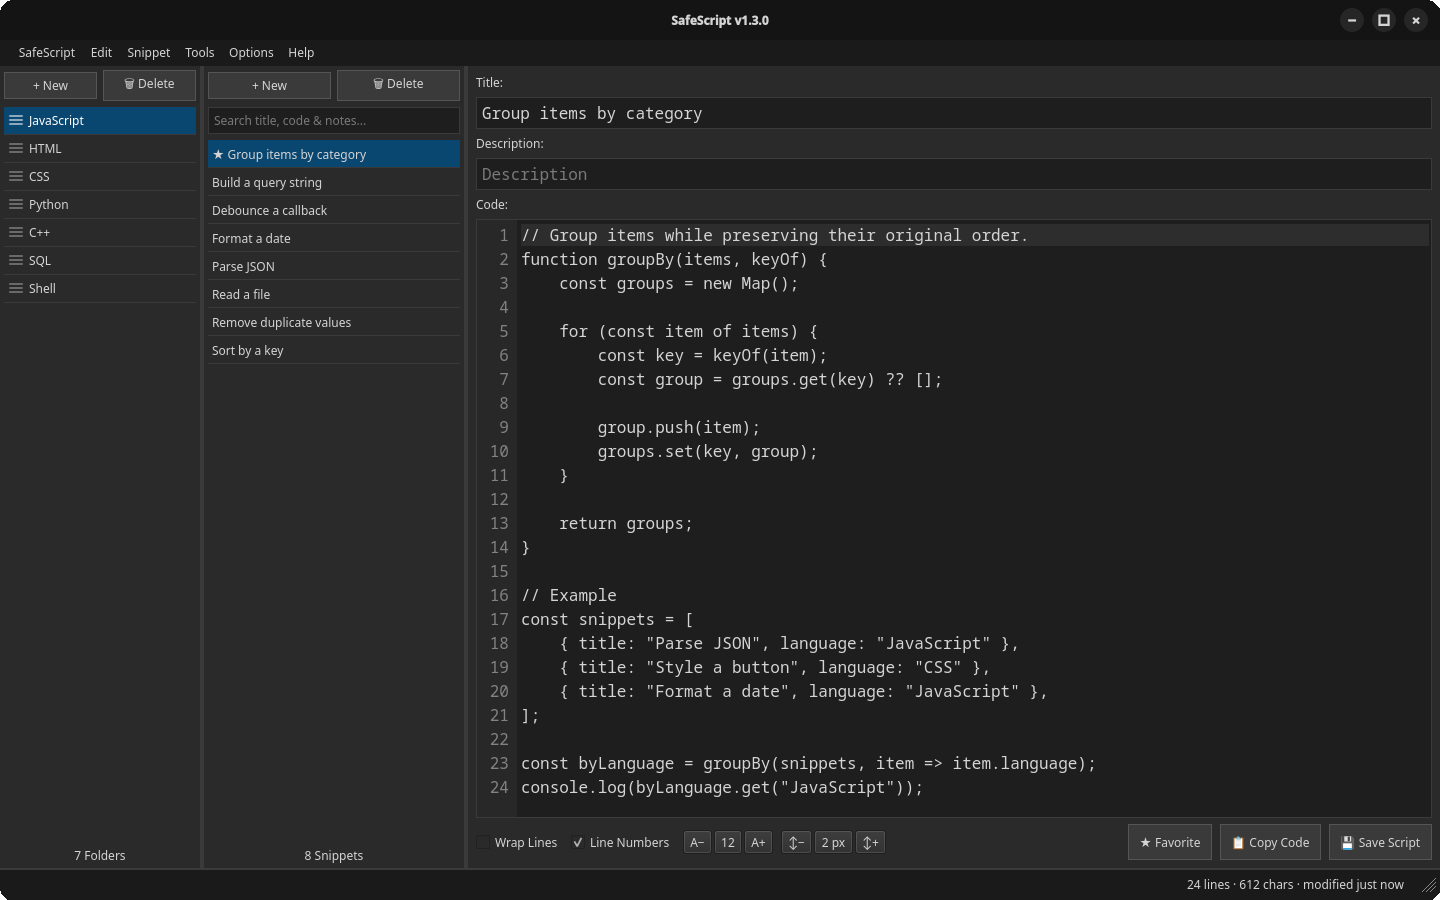
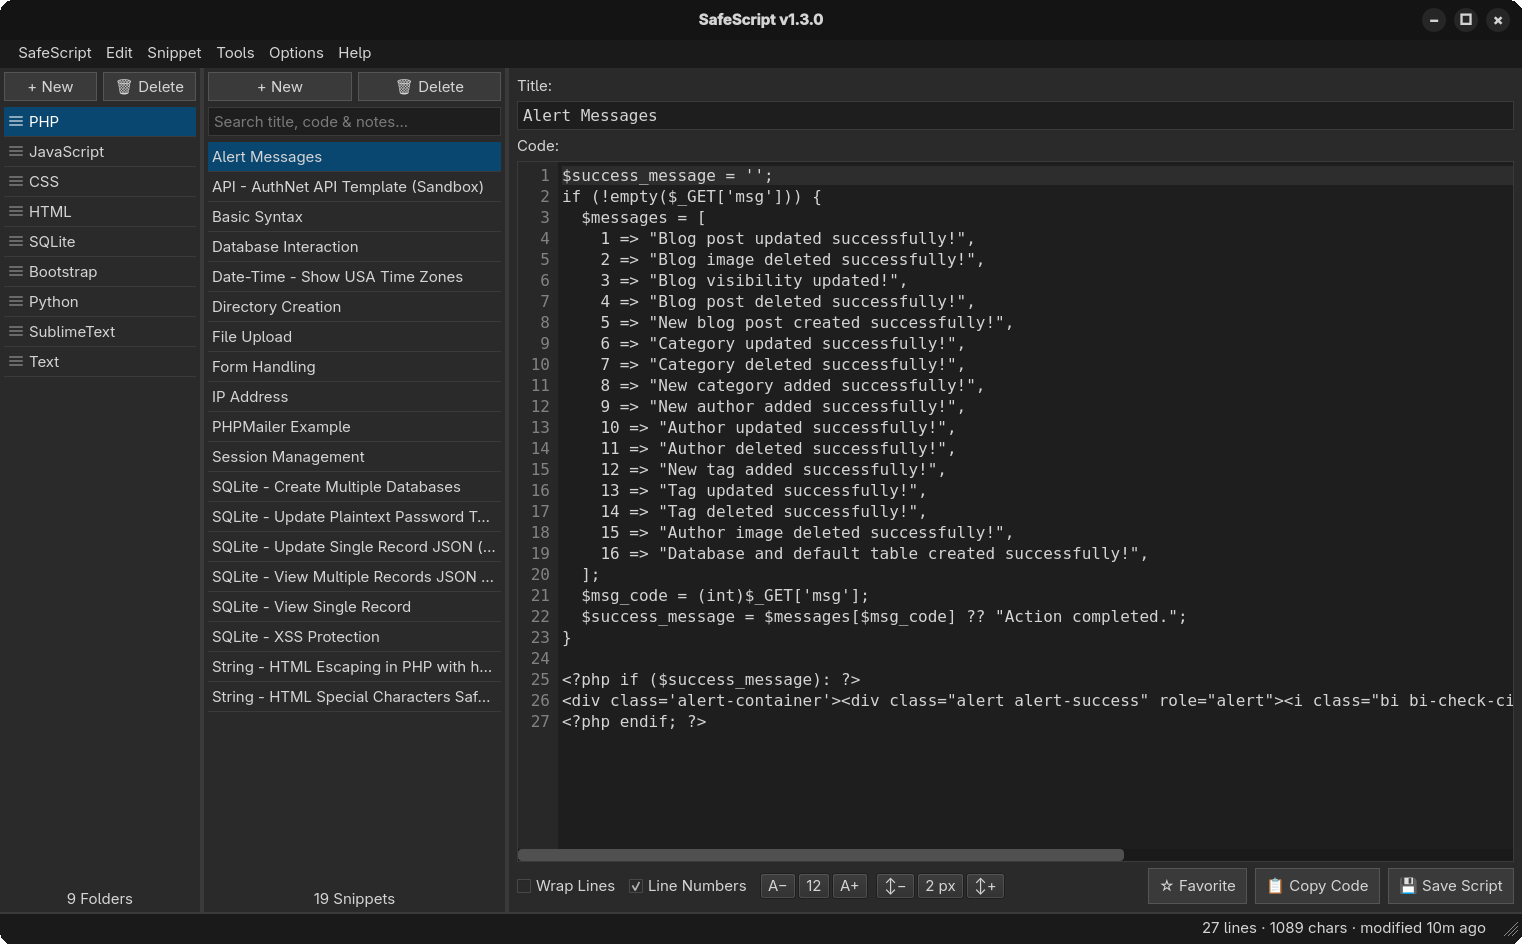
Refresh screenshots and show them in Help

diff --git a/mainwindow.cpp b/mainwindow.cpp
@@ -1,4 +1,5 @@
 #include <QToolButton>
+#include <QTabWidget>
 #include <QWindow>
 #include <QCollator>
 #include <QRegularExpression>
@@ -1957,6 +1958,30 @@ void MainWindow::setupMenuBar() {
         btnRow->addWidget(ok);
         layout->addLayout(btnRow);
         dlg.exec();
+    });
+    helpMenu->addAction(menuIcon("image-x-generic", QStyle::SP_FileIcon), "Screenshots…", this, [this]() {
+        PopupDialog dialog(this, "SafeScript Screenshots");
+        auto* tabs = new QTabWidget;
+        const QSize available = screen()->availableGeometry().size();
+        const QSize previewSize(qMax(1, qMin(1100, available.width() - 72)),
+                                qMax(1, available.height() - 140));
+        const auto addPreview = [tabs, previewSize](const QString& title, const QString& path) {
+            auto* preview = new QLabel;
+            preview->setAlignment(Qt::AlignCenter);
+            preview->setAccessibleName(title + " screenshot");
+            preview->setPixmap(QPixmap(path).scaled(previewSize, Qt::KeepAspectRatio,
+                                                    Qt::SmoothTransformation));
+            tabs->addTab(preview, title);
+        };
+        addPreview("Light Mode", ":/screenshot-light.png");
+        addPreview("Dark Mode", ":/screenshot-dark.png");
+        tabs->setCurrentIndex(darkModeEnabled ? 1 : 0);
+        dialog.body->addWidget(tabs);
+
+        auto* buttons = new QDialogButtonBox(QDialogButtonBox::Close);
+        connect(buttons, &QDialogButtonBox::rejected, &dialog, &QDialog::reject);
+        dialog.body->addWidget(buttons);
+        dialog.exec();
     });
     helpMenu->addSeparator();
     helpMenu->addAction(menuIcon("internet-web-browser", QStyle::SP_DriveNetIcon), "Project Website", this, []() {
